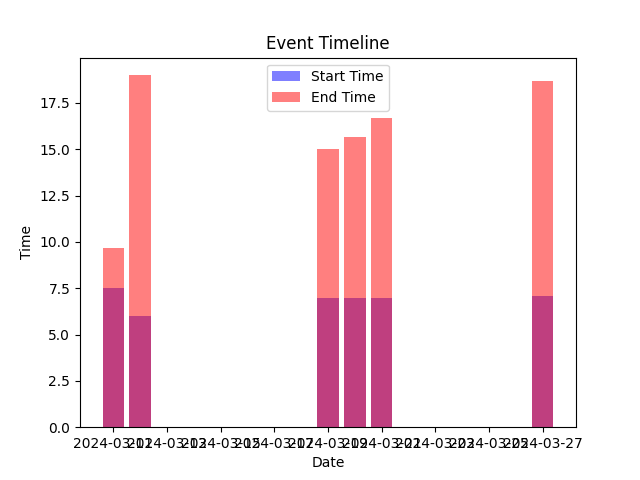
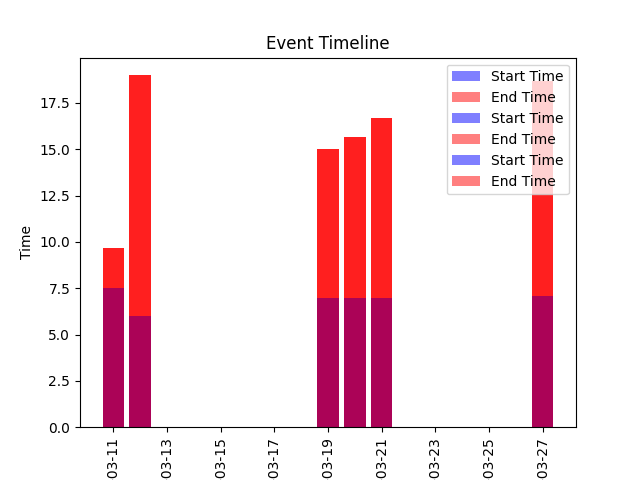
xlabel decription rotate

Changed region(s): [[0.0938, 0.125, 0.9062, 1.0]]

diff --git a/AI_text_converter/views.py b/AI_text_converter/views.py
@@ -115,6 +115,8 @@ def generate_chart():
 # Dane wykresu
     pyplot.bar(dates, start_times, label='Start Time', alpha=0.5, color='blue')
     pyplot.bar(dates, end_times, label='End Time', alpha=0.5, color='red')
+# Rotacja nazw o 90 stopni
+    pyplot.xticks(rotation=90)
 # Nazwy osi
     pyplot.xlabel('Date')
     pyplot.ylabel('Time')
@@ -145,9 +147,7 @@ class PDFGeneratorView(View):
     def get(self, request, **kwargs):
 
         chart_path = 'AI_text_converter/static/images/chart.png'
-        # chart_view_url = "http://127.0.0.1:8000/converter/charts/"
-        from django.template.loader import render_to_string
-        chart_view_url = render_to_string('AI_text_converter/static/images/chart.png')
+        chart_view_url = "http://127.0.0.1:8000/converter/charts/"
         pdf_path = 'AI_text_converter/static/pdf/chart.pdf'
 
         if os.path.exists(chart_path):
